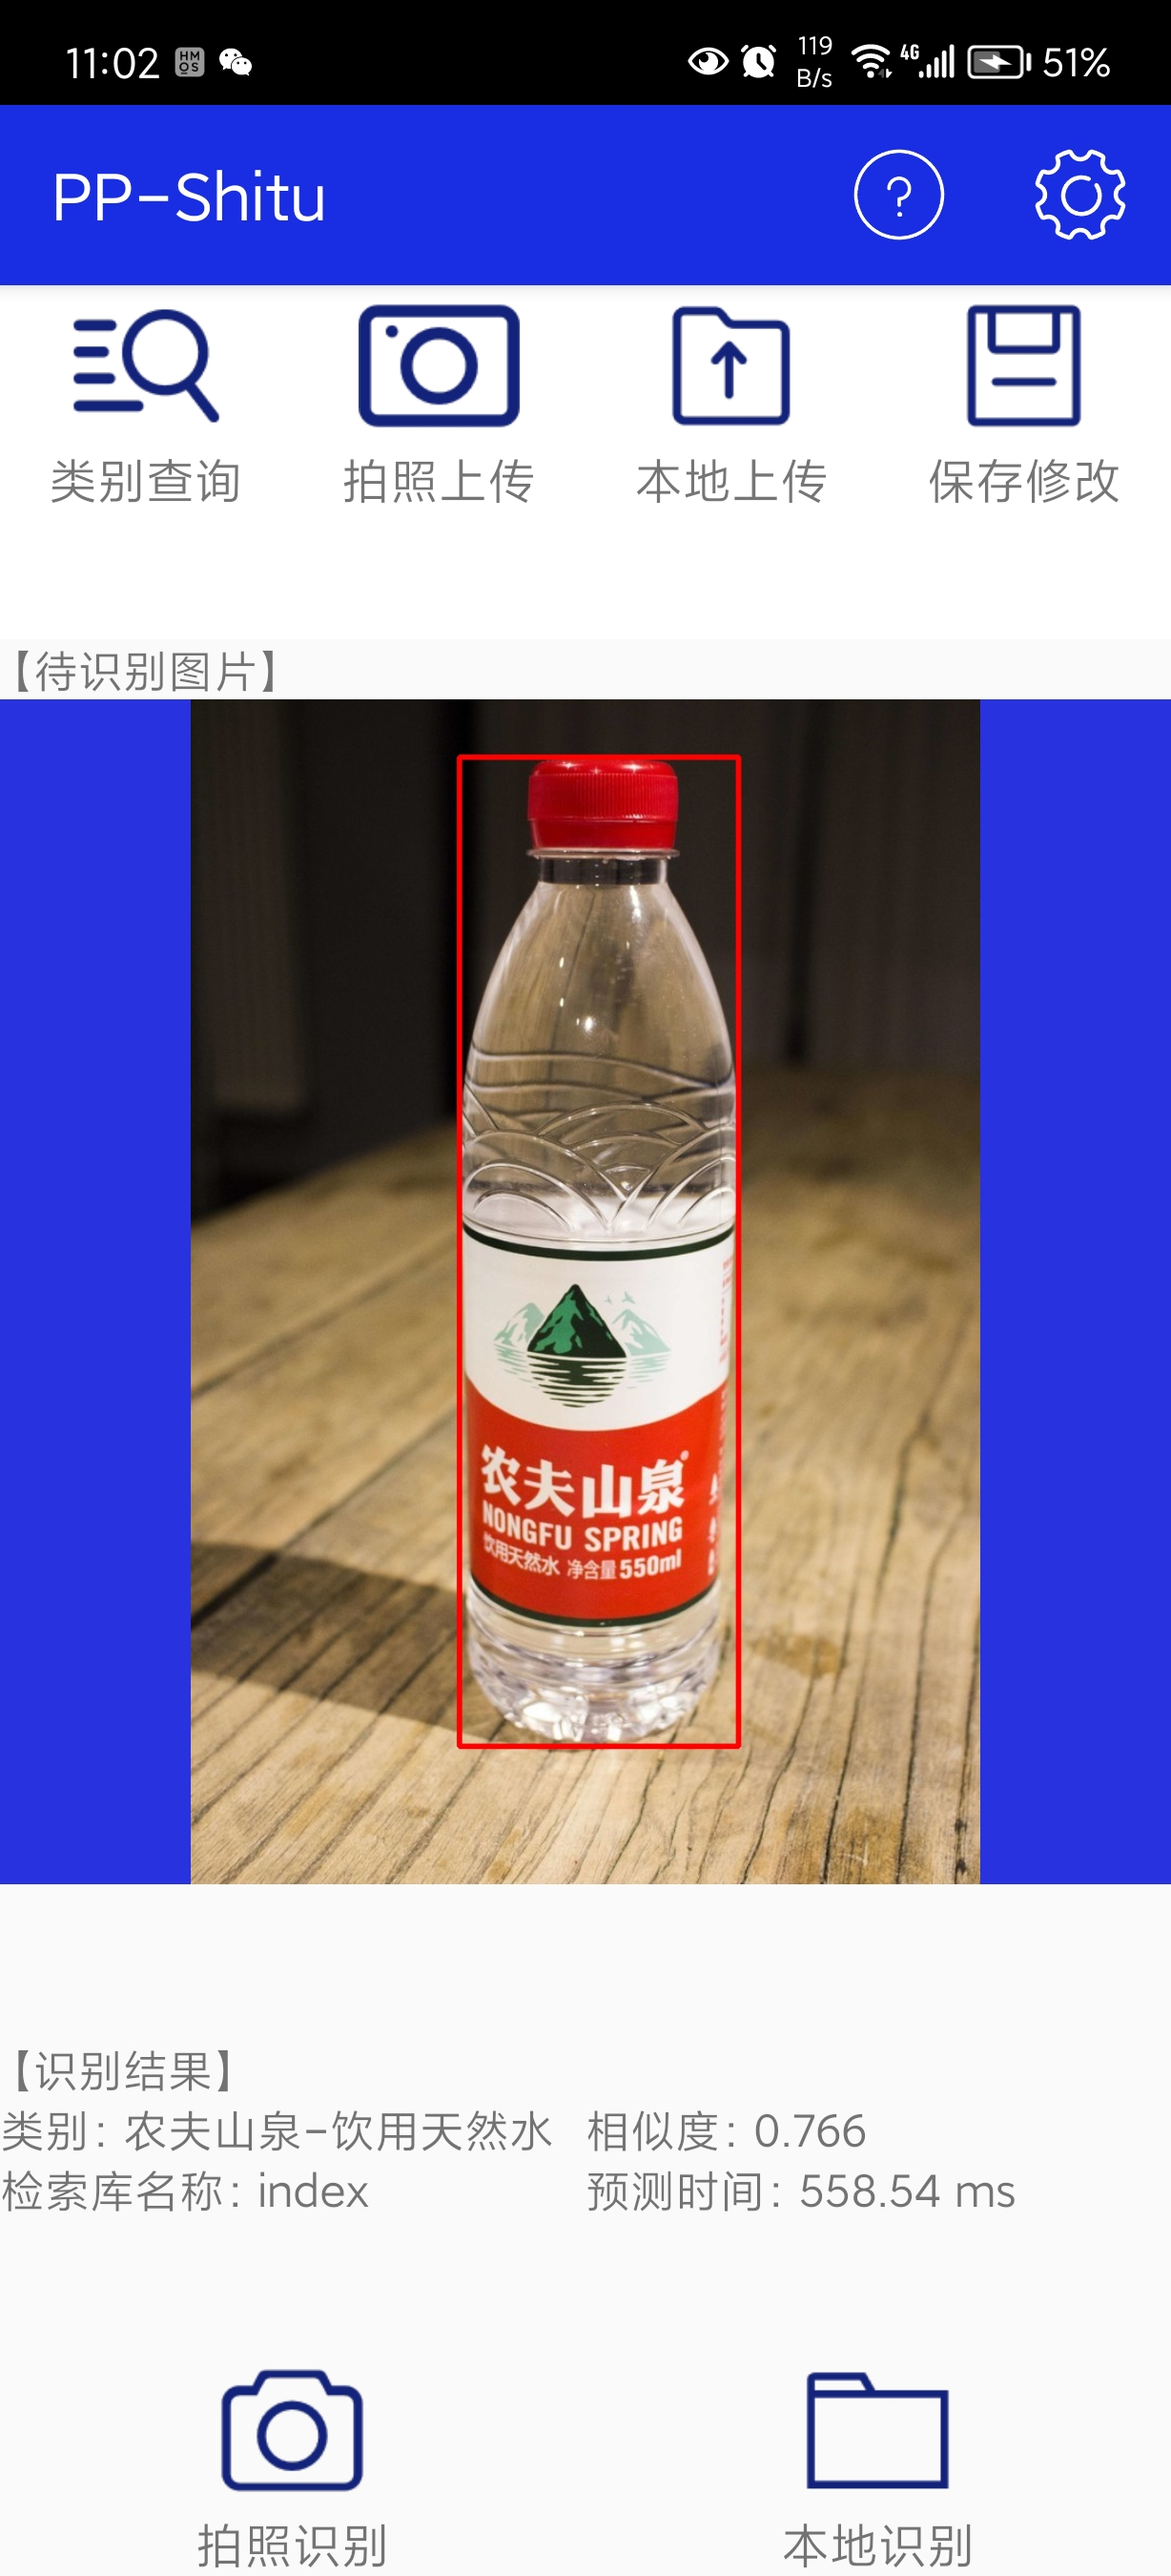
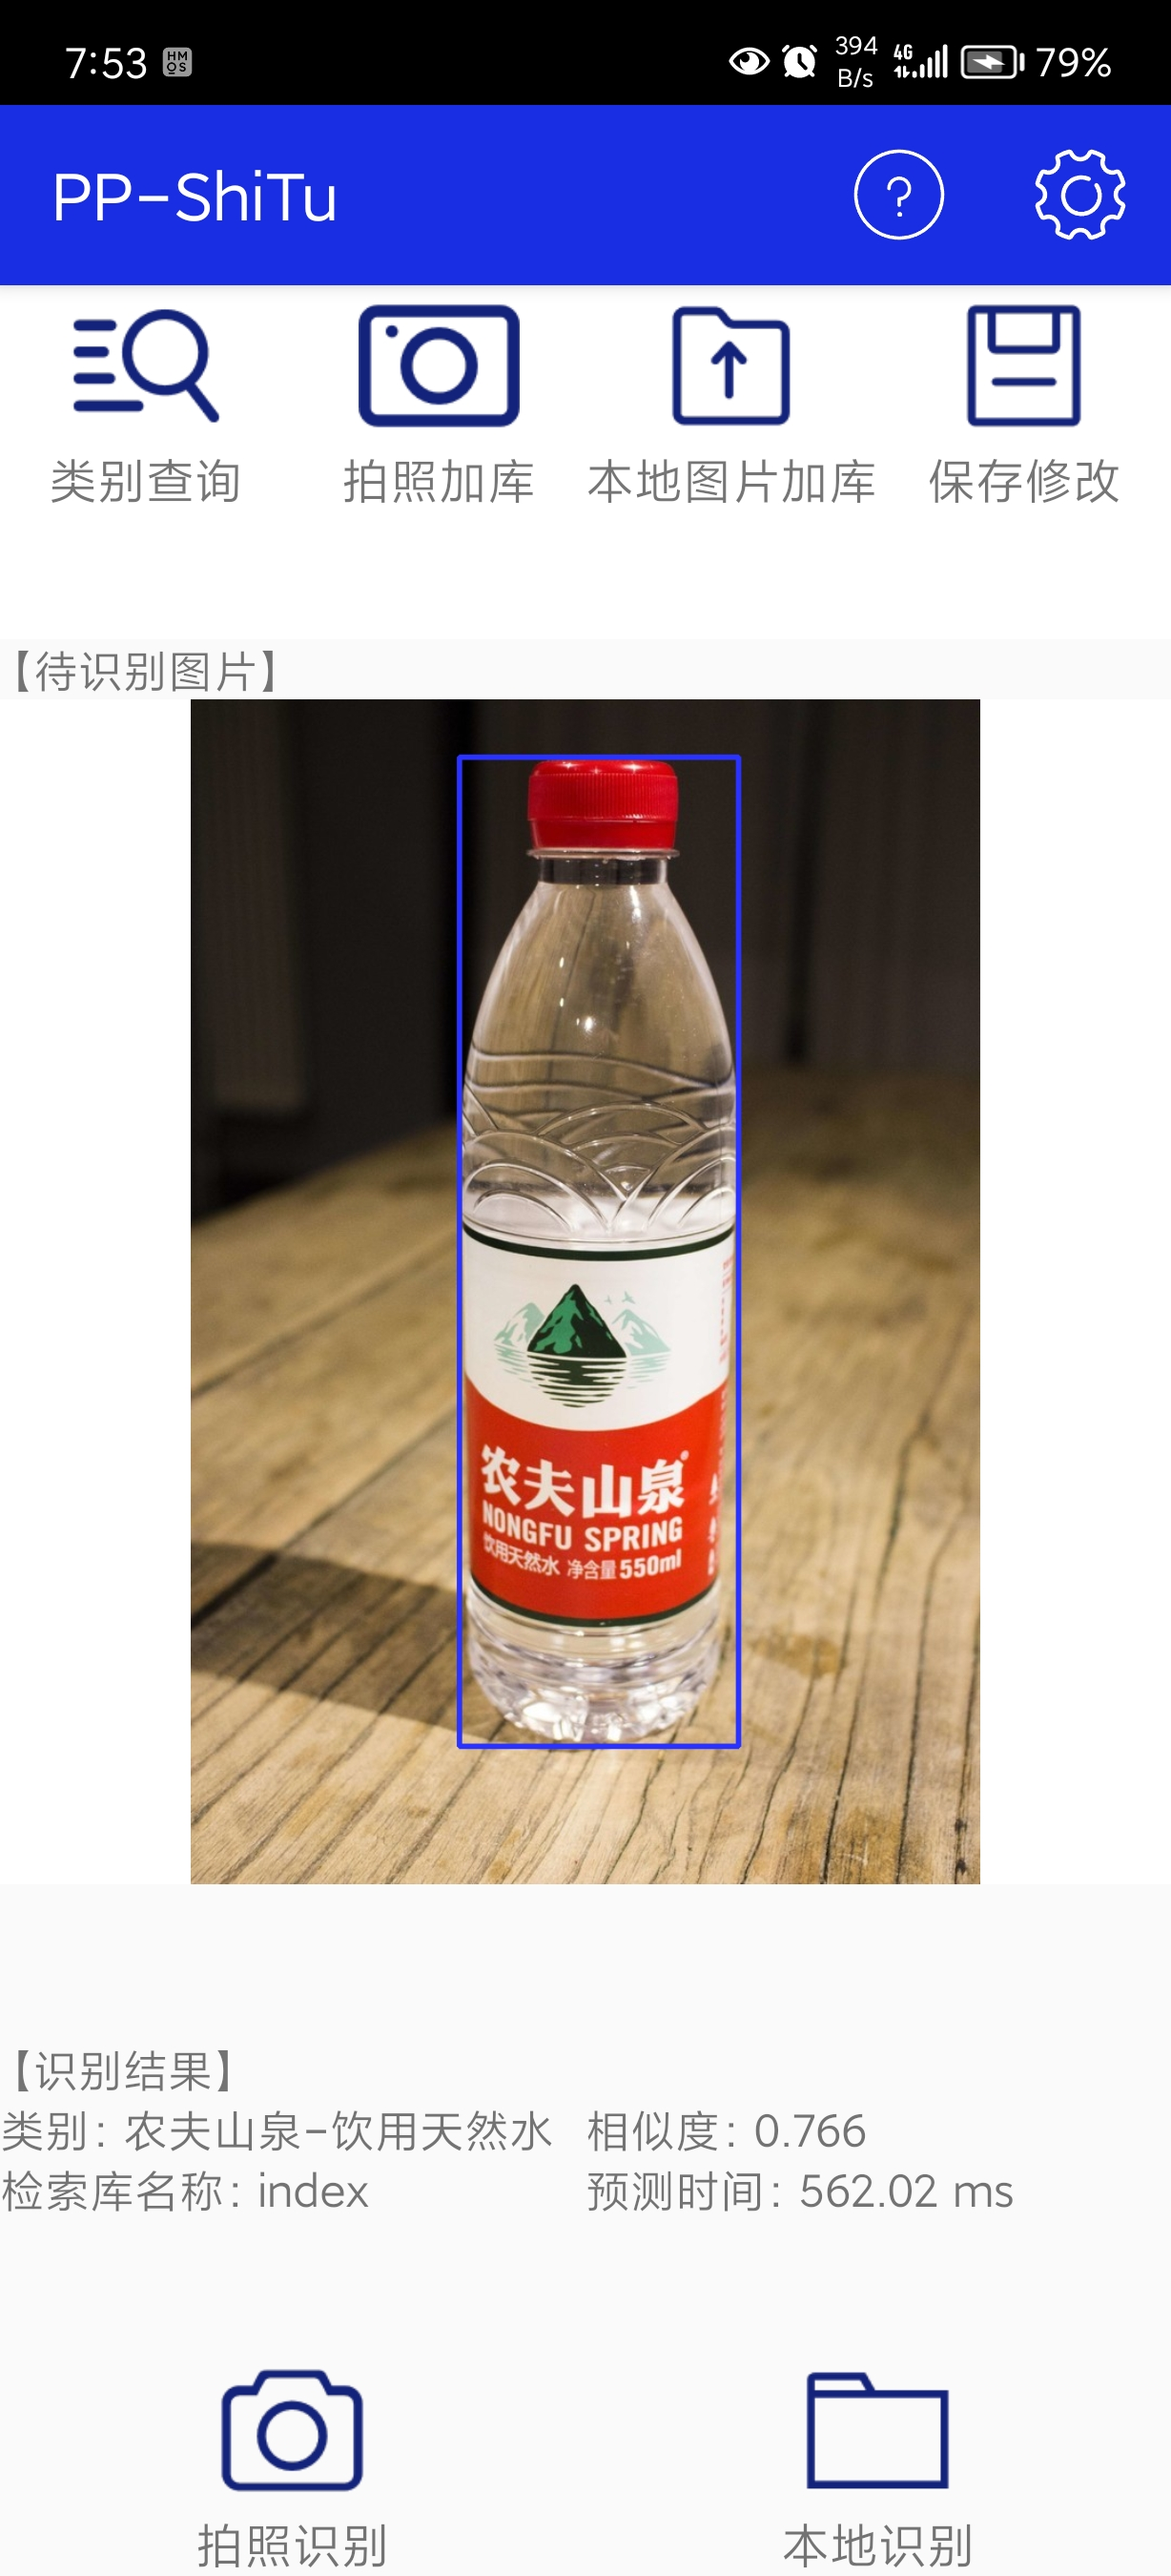
update docs

diff --git a/docs/zh_CN/quick_start/quick_start_recognition.md b/docs/zh_CN/quick_start/quick_start_recognition.md
@@ -41,7 +41,8 @@
 
 ### 1.1 安装 PP-ShiTu android demo
 
-可以通过扫描二维码或者[点击链接](https://paddle-imagenet-models-name.bj.bcebos.com/demos/PP-ShiTu.apk)下载并安装APP（**安装完毕之后需为APP开启摄像头权限，否则可能出现APP闪退**）
+可以通过扫描二维码或者[点击链接](https://paddle-imagenet-models-name.bj.bcebos.com/demos/PP-ShiTu.apk)下载并安装APP
+**注：** 华为鸿蒙OS 3.0的系统可能会出现无法调用摄像头的情况，建议更换低版本系统或者使用其它安卓机型进行快速体验。
 
 <img src="../../images/quick_start/android_demo/PPShiTu_qcode.png" height="250" width="250" />
 
@@ -59,19 +60,19 @@
 
 得到的检索结果可视化如下：
 
-<img src="../../images/recognition/drink_data_demo/output/android_nongfu_spring.JPG" width="400" height="800"/>
+<img src="../../images/quick_start/android_demo/android_nongfu_spring.JPG" width="400" height="800"/>
 
 #### 1.2.2 图像加库
-点击上方的“拍照上传”按钮<img src="../../images/quick_start/android_demo/paizhaoshangchuan_100.png" width="25" height="25"/>或者“本地上传”按钮<img src="../../images/quick_start/android_demo/bendishangchuan_100.png" width="25" height="25"/>，即可拍摄一张图像或从图库中选择一张图像，然后再输入这张图像的类别名字（比如`keyboard`），点击“确定”按钮，即可完成图片入库。
+点击上方的“拍照上传”按钮<img src="../../images/quick_start/android_demo/paizhaoshangchuan_100.png" width="25" height="25"/>或者“本地上传”按钮<img src="../../images/quick_start/android_demo/bendishangchuan_100.png" width="25" height="25"/>，即可拍摄一张图像或从图库中选择一张图像，然后再输入这张图像的类别名字（比如`keyboard`），点击“确定”按钮，即可将图片对应的特征向量与标签加入检索库。
 
 #### 1.2.3 库保存
-点击上方的“保存修改”按钮<img src="../../images/quick_start/android_demo/baocunxiugai_100.png" width="25" height="25"/>，再输希望保存的检索库与类别标签文件的文件名（如填入`data1`，为了简化逻辑，检索库文件`*.index`与类别标签文件`*.txt`使用相同的文件名），即可将当前库保存到手机内存中。
+点击上方的“保存修改”按钮<img src="../../images/quick_start/android_demo/baocunxiugai_100.png" width="25" height="25"/>，再输入希望保存的检索库名字（如填入`database_1`。为了简化体验逻辑，检索向量库文件 `*.index` 与检索标签库文件 `*.txt` 使用相同的文件名），即可将当前库保存到手机内存中。
 
 #### 1.2.4 更换检索库
-点击上方的“齿轮”按钮<img src="../../images/quick_start/android_demo/shezhi.png" width="25" height="25"/>，点击“Label Path”一栏，在弹出的选项中选择需要更换的库，然后再点击“Index Path”，在弹出的选项中选择需要更换的类别标签文件（一般一个库对应一个类别标签文件，因此更换检索库意味着需要同时更换库文件和类别标签文件，否则可能会造成检索结果错误）。
+点击上方的“齿轮”按钮<img src="../../images/quick_start/android_demo/shezhi.png" width="25" height="25"/>，点击“Label Path”一栏，在弹出的选项中选择需要更换的库，然后再点击“Index Path”，在弹出的选项中选择需要更换的类别标签文件（一般一个库对应一个类别标签文件，因此更换检索库意味着需要同时更换检索向量库文件和检索标签文件，否则可能会造成检索结果错误）。
 
 #### 1.2.5 查看检索库标签
-点击“类别查询”，即可在弹窗中查看。
+点击“类别查询”按钮<img src="../../images/quick_start/android_demo/leibiechaxun_100.png" width="25" height="25"/>，即可在弹窗中查看。
 
 <a name="功能介绍"></a>
 
@@ -90,8 +91,7 @@
 切换好检索向量库后，需要同时切换与之匹配的检索标签库。
 
 #### 1.3.5 查看检索库的标签
-可按照[功能体验-查看检索库的标签](#12-功能体验)中说明进行查看，当检索标签库过多（如本demo自带的196类检索标签库）时，可在弹窗中滑动查看。
-
+可按照[功能体验-查看检索库的标签](#125-查看检索库标签)中说明进行查看，当检索标签库过多（如本demo自带的196类检索标签库）时，可在弹窗中滑动查看。
 
 
 ## 2. PP-ShiTu PC端 demo 快速体验
